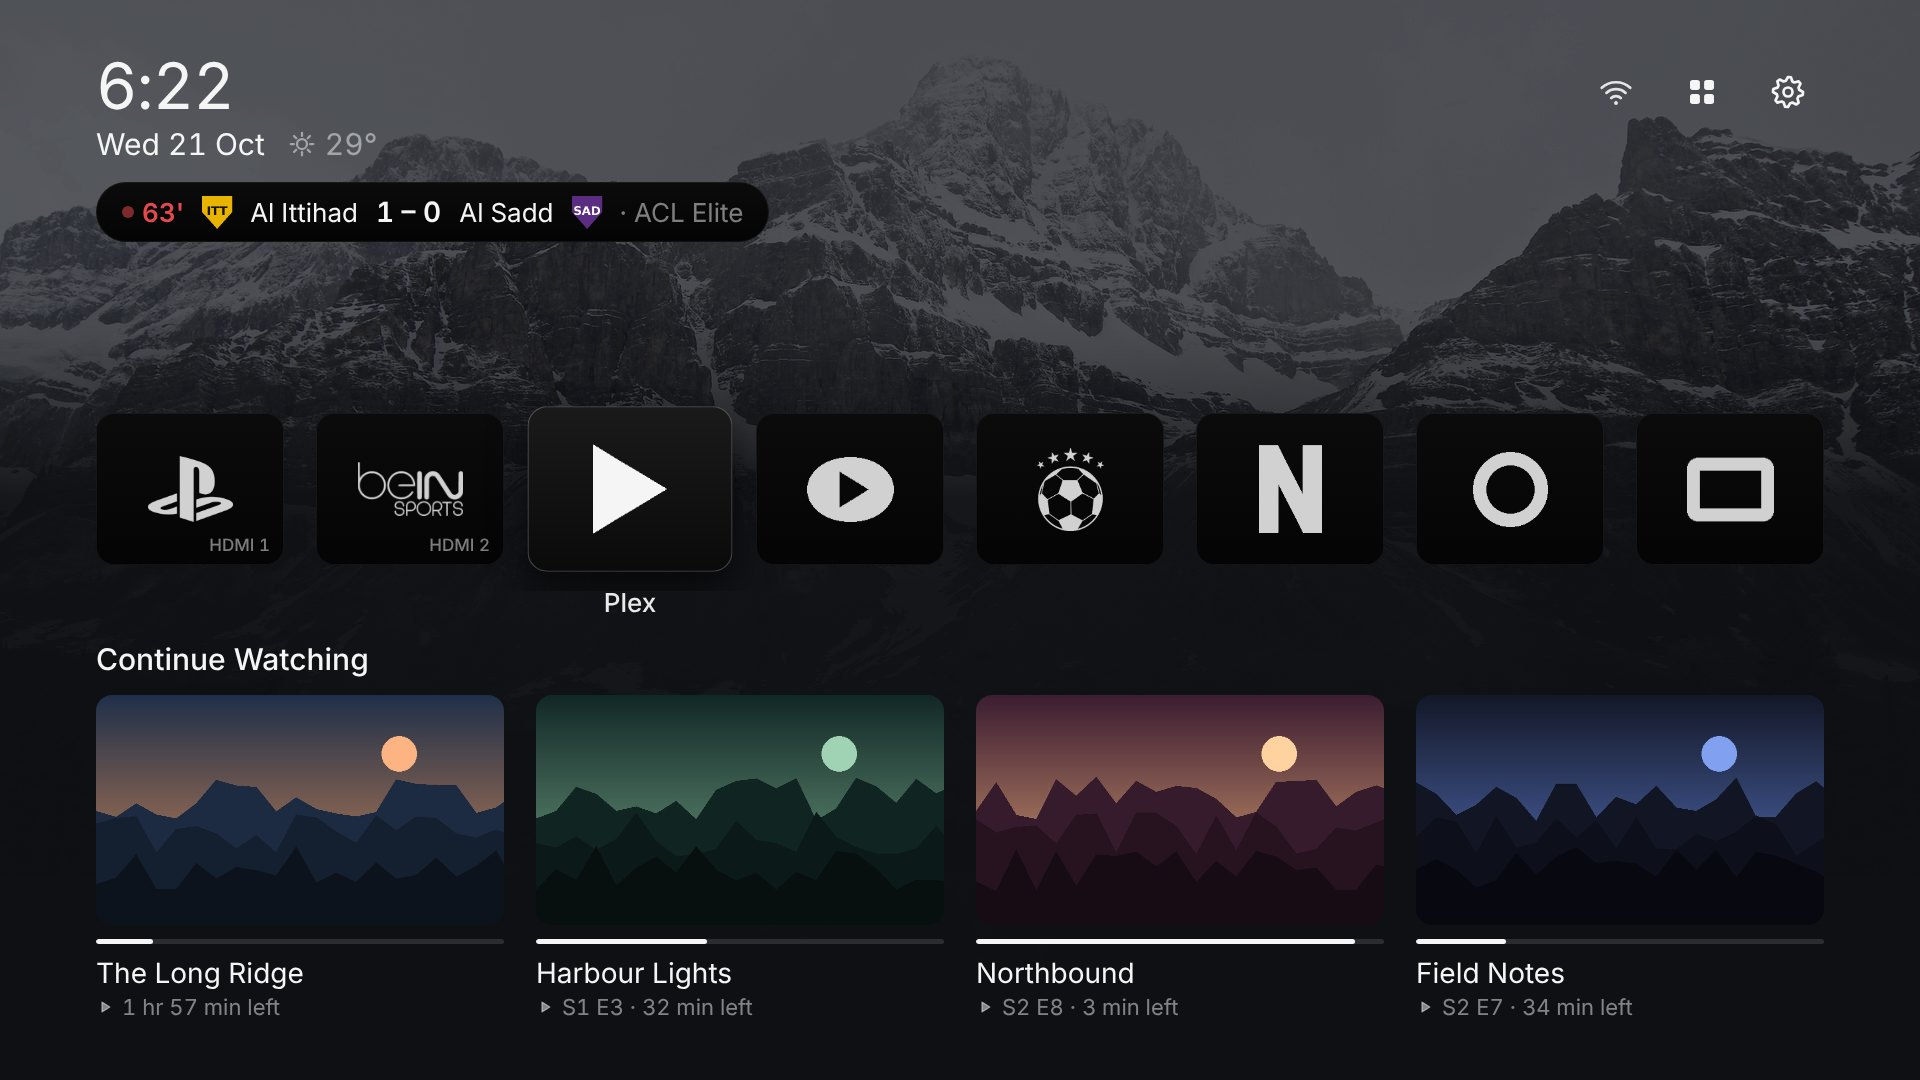
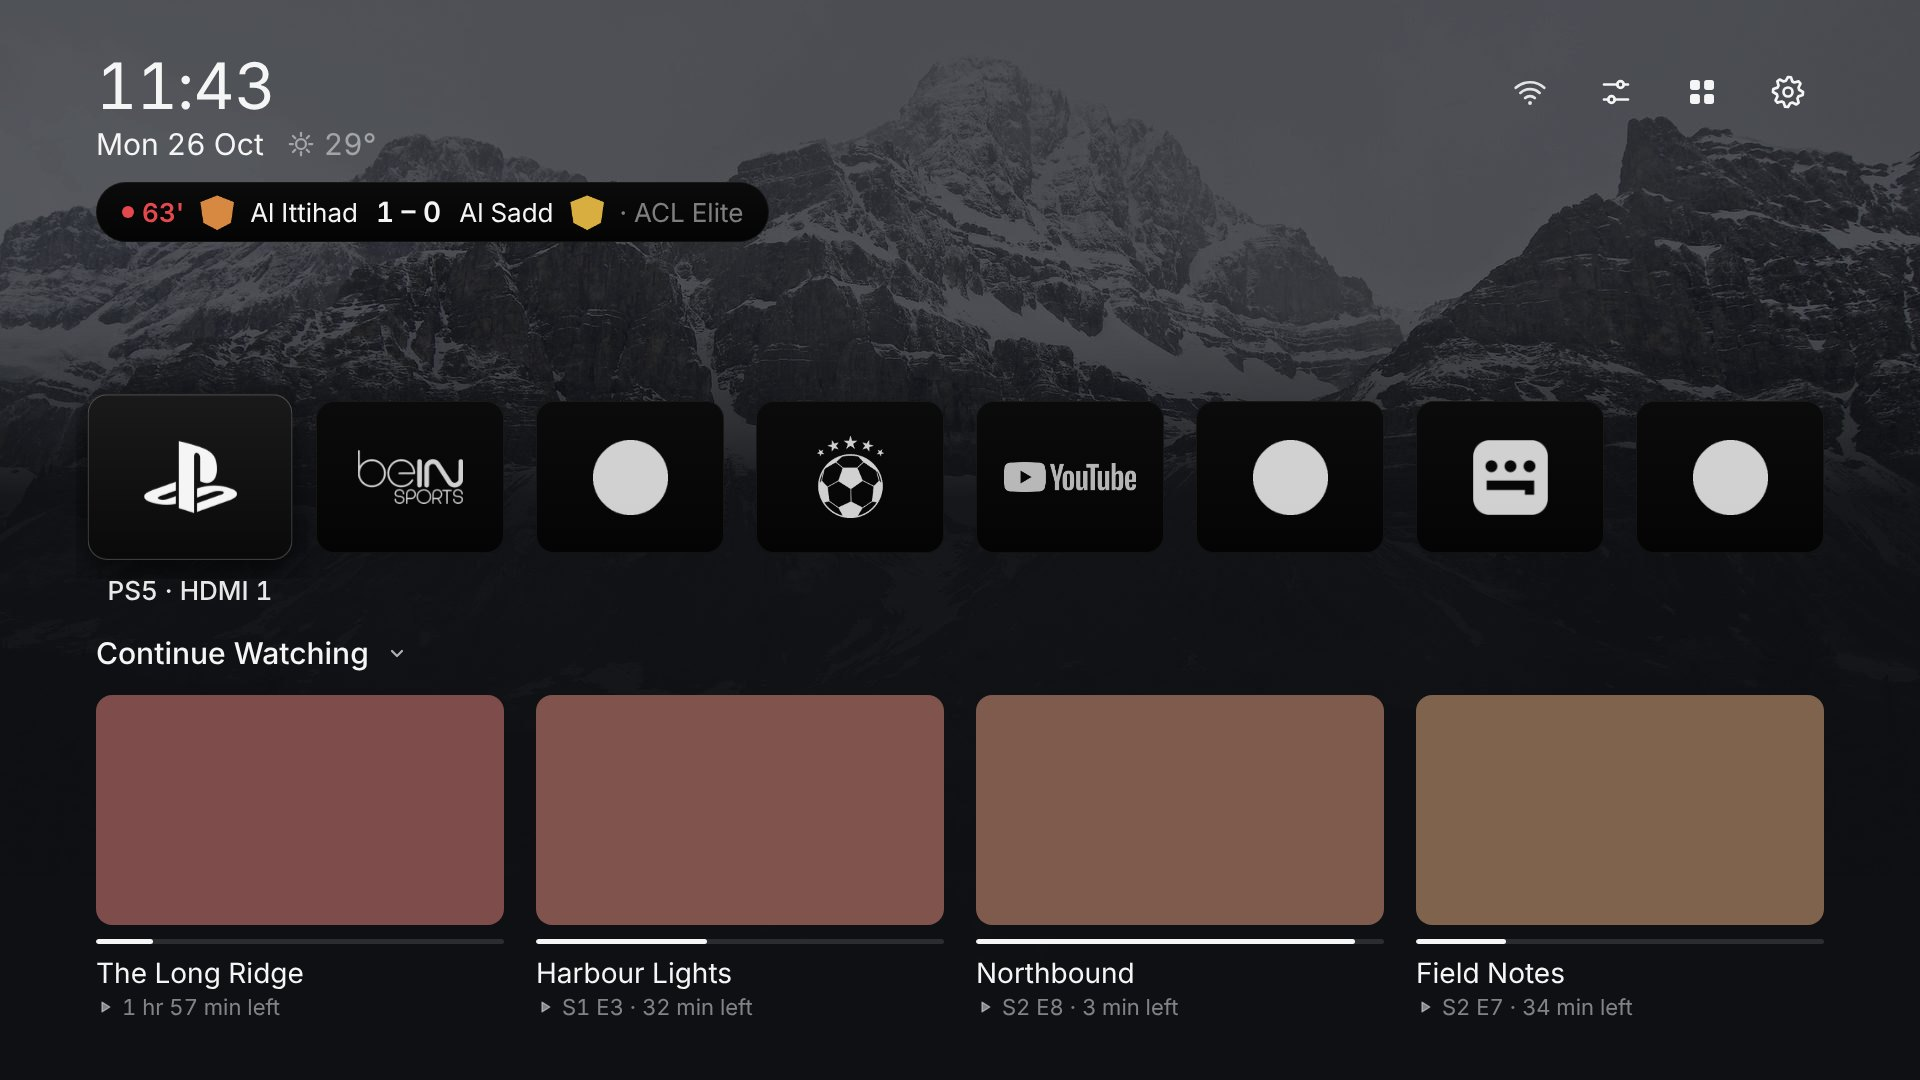
README: up to date for 2.17 (languages, 24-hour clock, wallpapers download, files, new screenshots)
Claude-Session: https://claude.ai/code/session_01Rk6ykczqb6i9yvWXyziP7w

diff --git a/README.md b/README.md
@@ -4,12 +4,14 @@ A calm, ad-free home screen for Samsung TVs (Tizen), built after
 [Plume Launcher](https://github.com/aradhyas8/Plume_Launcher) for Android TV, with Plex and today's football added.
 Made and tested on a Samsung **S90C** OLED (2023); it should run on Samsung TVs from about 2020 on.
 
-![Home, light](screens/home-light.jpg)
-![Home, dark](screens/home-dark.jpg)
+![Home](screens/home-dark.jpg)
+![The quick panel](screens/quick-panel.jpg)
+![Settings, with the live preview on the left](screens/settings.jpg)
 
 ## What's in it
 
-- **Home screen:** clock (12- or 24-hour), date and weather, a mountain wallpaper (light, dark or automatic at sunset), one row of app logos, and Plex Continue Watching.
+- **English or Arabic:** Settings → Language and Clock. Arabic turns the whole screen right to left, with Arabic team and competition names (IBM Plex Sans Arabic).
+- **Home screen:** clock (12- or 24-hour, Settings → Language and Clock or the quick panel), date and weather, a mountain wallpaper (light, dark or automatic at sunset), one row of app logos, and Plex Continue Watching.
 - **Wallpapers:** 24 mountain photos, one choice for both themes (Settings → Home screen → Wallpaper, with a light and dark preview). In dark mode a day photo is dimmed; the Rockies switch to their dusk photo; night photos (stars, moon) are for dark mode only. *A different mountain each day* goes through them. install.bat downloads the free Unsplash and Pexels photos once (`walls.ps1`, list in `walls.txt`) and packs them into Plume, so they change at once and work offline; one that couldn't be downloaded loads from the internet, or shows the Rockies.
 - **Quick panel** (the first icon at the top right): tiles for Theme, Clock (12/24-hour), Wallpaper (OK: the next one), Sleep screen now, Match alerts and Language, and round buttons for the matches row on/off, Refresh (matches, Plex and weather), Matches, Samsung Home and Settings. No volume: the remote does that. Hold OK on a tile or button to move it or hide it. Settings → Home screen → *Quick panel* brings hidden ones back in two groups, tiles and round buttons, and has 13 more you can turn on: Wallpaper each day, Logos, App names, Continue Watching row (shows or hides the whole row with its title), Sleep after, Subtitle style, Highlights play in, Resume watching, Next match, PS5, beIN, All apps, Plex app.
 - **Network:** focus the Wi-Fi icon at the top right to see the network's name and signal. (Samsung doesn't let apps change the network.)
@@ -24,12 +26,12 @@ Made and tested on a Samsung **S90C** OLED (2023); it should run on Samsung TVs 
 - **League page** (Right on the table beside the list, then OK): the whole table, and one list of results and coming matches two weeks each way, opening at today.
 - **Reminders** pop up 10 minutes before kick-off while Plume is on screen. OK switches to beIN.
 - **Sleep screen** after 1½ minutes idle (before an OLED's own protection screen at 2 minutes): drifting mountain and nature photos, a large clock with the date and weather, and up to three live or upcoming matches.
-- **Plex player:** a Continue Watching card plays right where you stopped, inside Plume, with Samsung's own video player (4K, HDR10, Dolby Vision, Dolby Atmos). Settings and Info on the left, −10 / pause / +10 in the middle, Next episode on the right; Up for the progress bar (hold to speed up). Each episode starts with Plex's own choices for it: its subtitle track, its audio track and its Original quality. The gear lists that episode's subtitles and audio, its Original (resolution and bitrate) and the lower steps below it; changes are saved to Plex. Several presses of −10/+10 make one jump. When the bar comes back it's on Play/Pause, in the middle. With the bar hidden, ◀ ▶ go back or forward 10 s. Info shows just the video, audio and subtitles. The gear lists Arabic and English subtitles first; the other languages are under *More subtitles*. The next episode plays after a 10-second countdown, from the same version. Your position is saved to Plex on every version of the title. Info shows the version playing and how subtitles are shown.
+- **Plex player:** a Continue Watching card plays right where you stopped, inside Plume, with Samsung's own video player (4K, HDR10, Dolby Vision, Dolby Atmos). Settings and Info on the left, −10 / pause / +10 in the middle, Next episode on the right; Up for the progress bar (hold to speed up). Each episode starts with Plex's own choices for it: its subtitle track, its audio track and its Original quality. The gear lists that episode's subtitles and audio, its Original (resolution and bitrate) and the lower steps below it; changes are saved to Plex. Several presses of −10/+10 make one jump. When the bar comes back it's on Play/Pause, in the middle. With the bar hidden, ◀ ▶ go back or forward 10 s. Info shows just the video, audio and subtitles. The gear lists Arabic and English subtitles first; the other languages are under *More subtitles*. The next episode plays after a 10-second countdown, from the same version. Your position is saved to Plex on every version of the title.
 - **Episodes:** hold OK on an episode in Continue Watching → *Episodes*: the show's seasons and episodes, with progress and watched marks. OK plays any episode in Plume's player.
 - **Hide:** hold OK on a card. *Remove from Continue Watching* takes away that one title until it's watched again. *Hide this show* (or *movie*) keeps the whole show off Plume, including episodes watched later on another device using the same Plex account. Plex itself keeps everything. Settings → Plex → *Hidden* lists hidden shows and movies; OK brings one back.
 - **Subtitle timing:** ⚙ → *Subtitle timing*, ◀ earlier / ▶ later by half a second, remembered per episode (for subtitles Plume draws). *Search subtitles online* lists the ones made for your exact file first.
-- **Subtitles:** SRT and WebVTT are drawn by Plume as clear white lines. ASS subtitles keep their own fonts, colours, outlines, positions and movement (drawn by libass, in `vendor/libass`, with the fonts stored in the video file); Settings → Plex → *Subtitle style: Simple* draws them as white lines instead, and Plume falls back to plain lines by itself if the engine can't start. A subtitle stored inside the video comes from Plex on its own (no conversion), or else Plume reads its lines straight out of the MKV file (`js/subfile.js`): where you are first, then the rest of the episode in about half a minute, so skips never wait. The last 10 episodes' lines are kept on the TV, so an episode opened again shows them at once. Only then does the server convert. Info (ⓘ) says which way worked.
-- **Versions** (4K and 1080p, or original and dubbed): one card plays the version you played last: if you watched a version further in the Plex app since you last stopped in Plume, that one; otherwise the one you played in Plume (with no history yet: the one furthest along, then 4K). Info shows which version is playing and why. Hold OK on the card to pick another version (*Play · 4K*, *Play · Arabic*, …); Plume remembers it. Settings → Plex → *Default quality*: Last played, 4K or 1080p (same language only).
+- **Subtitles:** SRT and WebVTT are drawn by Plume as clear white lines. ASS subtitles keep their own fonts, colours, outlines, positions and movement (drawn by libass, in `vendor/libass`, with the fonts stored in the video file); Settings → Plex → *Subtitle style: Simple* draws them as white lines instead, and Plume falls back to plain lines by itself if the engine can't start. A subtitle stored inside the video comes from Plex on its own (no conversion), or else Plume reads its lines straight out of the MKV file (`js/subfile.js`): where you are first, then the rest of the episode in about half a minute, so skips never wait. The last 10 episodes' lines are kept on the TV, so an episode opened again shows them at once. Only then does the server convert.
+- **Versions** (4K and 1080p, or original and dubbed): one card plays the version you played last: if you watched a version further in the Plex app since you last stopped in Plume, that one; otherwise the one you played in Plume (with no history yet: the one furthest along, then 4K). Hold OK on the card to pick another version (*Play · 4K*, *Play · Arabic*, …); Plume remembers it. Settings → Plex → *Default quality*: Last played, 4K or 1080p (same language only).
 - **Fold rows away:** press Up from the cards to reach a row's title (Continue Watching, or Today's matches when that row is on) and press OK to fold the row away; OK again opens it. Plume remembers it.
 - **Smooth on the TV:** rows slide on the graphics chip, focus effects fade ready-made layers, posters load at the size shown, and a held arrow never builds up a backlog.
 - **Settings** (gear icon): full screen over the blurred wallpaper, in groups: Apps, Inputs, Home screen, Sleep screen, Appearance, Language and Clock, Weather, Football, Plex, About. The left side shows a live preview of the focused group: a small home screen with your wallpaper, the sleep screen, your teams and the next big match, the clock in your format.
@@ -44,7 +46,9 @@ Plume isn't in Samsung's app store: you install it from a Windows PC with Samsun
 4. **A certificate for your TV.** Tizen Studio → Tools → **Certificate Manager** → **+** → **Samsung** → **TV** → give the profile a name → create a new author certificate (any name and password) → sign in with your Samsung account → in the distributor step, check that your TV's **DUID** is listed (it appears while the TV is connected) → Finish. Leave this profile **active** (the tick).
 5. **Install.** Download this repository (**Code → Download ZIP**), unzip it somewhere outside OneDrive (for example `C:\Plume`), open the folder and double-click **install.bat**. It asks nothing: it uses the active certificate profile and the connected TV (or finds the TV on your network), remembers both in `install.cfg`, then packages, signs, installs and opens Plume.
 
-To update later: replace the files with the new ones and double-click `install.bat` again. Your settings on the TV stay.
+The first run also downloads the wallpapers (about 10 MB) and packs them into Plume, so it takes a minute longer; later runs skip them.
+
+To update later: replace the files with the new ones (keep `install.cfg` and your `Plume\youtube-key.txt`) and double-click `install.bat` again. Your settings on the TV stay.
 
 ## YouTube key for highlights (optional, about 10 minutes, free)
 
@@ -57,7 +61,7 @@ Without a key Plume reads YouTube's plain search page, which YouTube sometimes b
 5. Optional but wise: on that key, **Edit → API restrictions → Restrict key → YouTube Data API v3 → Save**.
 6. Open `Plume\youtube-key.txt`, paste the key on its own line, save, and run `install.bat` again.
 
-Settings → Football → *YouTube key for highlights* then shows **Set**. The free allowance (about 100 searches a day) is far more than needed; each finished match you open costs one or two searches, and results are remembered for a few hours.
+The free allowance (about 100 searches a day) is far more than needed; each finished match you open costs one or two searches, and results are remembered for a few hours.
 
 ## First run on the TV
 
@@ -91,8 +95,14 @@ No account, no ads, no tracking. Plume connects only to:
 |---|---|
 | `Plume/` | The TV app (HTML, CSS, JavaScript; no build step) |
 | `Plume/js/` | `home.js` home screen · `football.js` feed and rules · `centre.js` match centre · `plex.js` · `apps.js` app row and logos · `settings.js` · `quick.js` quick panel · `walls.js` wallpapers · `sleep.js` · `tv.js` Samsung APIs |
+| `Plume/js/` (player) | `player.js` Plex player · `subfile.js` subtitles read from the MKV file, kept on the TV · `alerts.js` match alerts · `ytplayer.js` highlights |
+| `Plume/js/` (text) | `i18n.js` languages · `ar.js` Arabic text · `teams-ar.js` Arabic team names |
 | `install.bat` | Package, sign, install and open on the TV (Windows) |
+| `walls.ps1`, `walls.txt` | Download the wallpapers once into `Plume/img/walls` (install.bat runs it) |
 | `tests/harness.py` | Runs Plume in a browser with a stand-in TV, feed and Plex server, and checks the remote-control flows |
+| `tests/player_test.py` | The Plex player: playback, versions, subtitles (including reading them from an MKV file) |
+| `tests/i18n_check.js` | Every piece of Plume's text has its Arabic |
+| `tests/walls_list.js` | Makes `walls.txt` from `js/walls.js` |
 
 ## Credits
 
